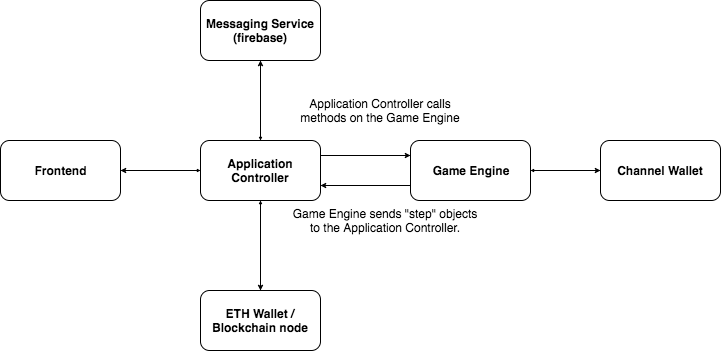
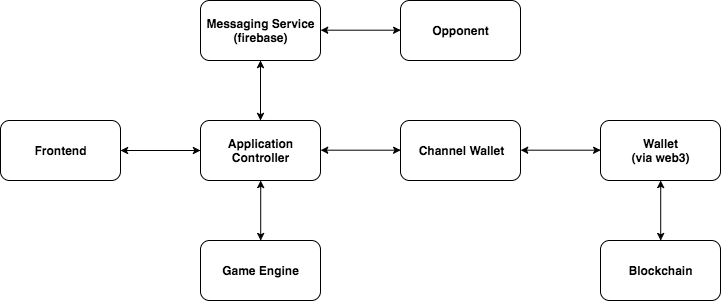
Update architecture diagram

diff --git a/notes/readme.md b/notes/readme.md
@@ -11,71 +11,3 @@ The Game Engine is responsible for storing the current state of the game and pro
 The Application Controller is responsible for taking the next steps according to the state provided by the Game Engine and reporting back with the results. This could involve communicating with the opponent and/or the blockchain and/or rendering UI to get input from the user.
 
 ![Architecture diagram](./architecture.png)
-
-## Example code
-
-Here's an example of how the Application Controller would interact with the game engine. All of what follows takes place in the player A's Application Controller:
-
-```js
-ge = RPSEngine.new(addressOfLibrary)
-state = ge.startGame(wallet, opponent, stake, initialBalances)
-state // ReadyToSendPreFundProposal(initialMessage)
-```
-The Application Controller (AC) starts by creating a new game engine for the game in question. If the `addressOfLibrary` doesn't match the address that the `RPSEngine` expects, this operation should probably error.
-
-The AC then starts the game, passing in details of the opponent etc. The GE sets up the channel and returns a state. The state that the GE returns contains the first message, representing the first `PREFUNDSETUP` state.
-
-The AC then sends the message to the opponent and reports back to the GE:
-```js
-ge.preFundProposalSent() // AwaitingPreFundResponse(initialMessage)
-```
-The GE responds with a new state. The AC updates the UI accordingly and listens for the opponent's response. The GE has provided the AC with the `initialMessage` again, so that the AC can re-send to the opponent if required.
-
-When the opponent's message arrives, the AC notifies the GE:
-```js
-ge.pushMessage(opponentsMessage) // ReadyToDeployAdjudicator(deploymentTransaction)
-```
-The GE responds with a new state, telling the AC that the next stop is to deploy the adjudicator, along with a transaction to accomplish that.
-
-The GE interacts with the regular ETH wallet, to sign the transaction and send it to the blockchain. It then reports back to the GE:
-```js
-ge.deployTransactionSent() // AwaitingDeploymentConfirmation()
-```
-In this new state, the AC will monitor the blockchain. When it sees the event confirming that the adjudicator was created, it notifies the GE:
-```js
-ge.pushEvent(deploymentEvent) // AwaitingOpponentDeposit()
-```
-The `deploymentEvent` contains the address of the adjudicator, which the GE needs to know in case it needs to craft a force-move transaction in the future.
-
-The AC then monitors the blockchain again, until it sees the event confirming that the opponent deposited:
-```js
-ge.pushEvent(opponentsDepositEvent) // ReadyToSendPostFundConfirmation(postFundConfirmationMessage)
-```
-Once the opponent has deposited, the next step is to send the `postFundConfirmationMessage`. The GE provides this to the AC in the new state. The AC sends this to the opponent and notifies the GE:
-```js
-ge.postFundConfirmationSent()// AwaitingPostFundConfirmationResponse()
-```
-The GE responds, telling the AC to wait for the response. When it arrives, the AC notifies the GE:
-```js
-ge.pushMove(message) // ReadyToChoosePlay()
-```
-The new state tells the AC to display the "choose your move" screen to the user. When the user makes their choice, the AC notifies the GE:
-```js
-ge.choose("rock")  // ReadyToSendPlay(message)
-```
-The GE then crafts the message to send to the opponent. In doing this it generates the `salt` and the `preCommit`. It stores the player's move, as it will need it later to craft the reveal message.
-
-When the AC has sent the message to the opponent it notifies the GE:
-```js
-ge.playSent() // AwaitingOpponentsPlay()
-```
-The new state tells the AC to wait for the opponent's move. When it arrives the AC notifies the GE.
-```js
-ge.pushMove(opptsMove) // ReadyToSendReveal(revealMove)
-```
-The GE then crafts the `revealMove`, calculating the winnings etc. and provides this to the AC, who sends it to the user and notifies the GE:
-```js
-ge.revealSent() // AwaitingRoundConclusion()
-```
-The GE instructs the AC to wait for the opponent's message.
-
